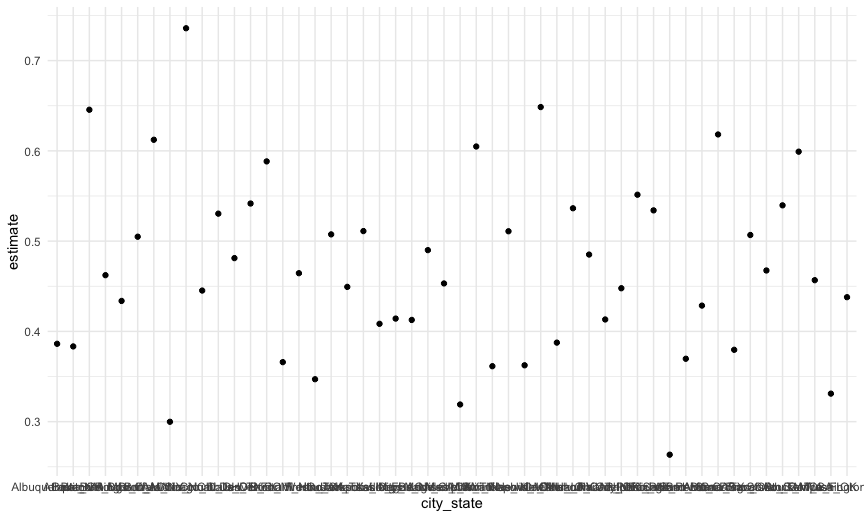
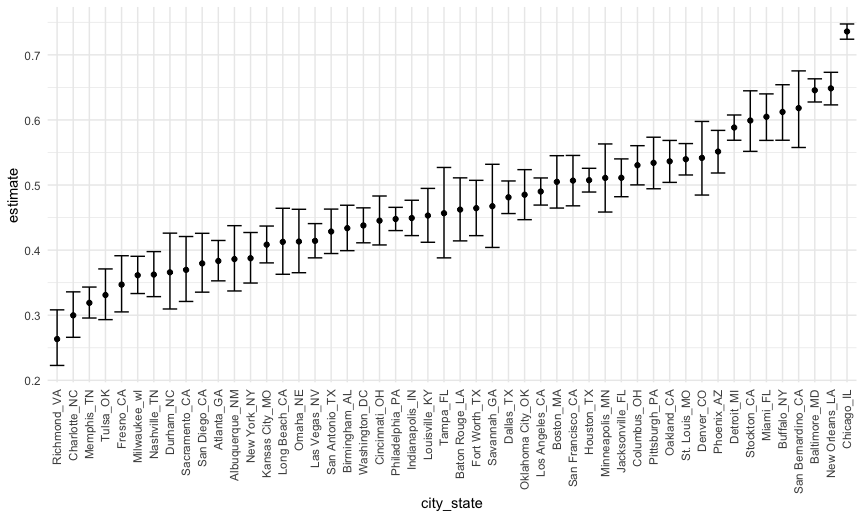
plot that shows the estimates and CIs for each city

diff --git a/p8105_hw5_xy2476.md b/p8105_hw5_xy2476.md
@@ -85,8 +85,11 @@ results_df =
 
 ``` r
 results_df %>% 
+  mutate(city_state = fct_reorder(city_state, estimate)) %>% 
   ggplot(aes(x = city_state, y = estimate)) +
-  geom_point()
+  geom_point() +
+  geom_errorbar(aes(ymin = conf.low, ymax = conf.high)) +
+  theme(axis.text.x = element_text(angle = 90, vjust = 0.5, hjust = 1))
 ```
 
 <img src="p8105_hw5_xy2476_files/figure-gfm/unnamed-chunk-5-1.png" width="90%" />
